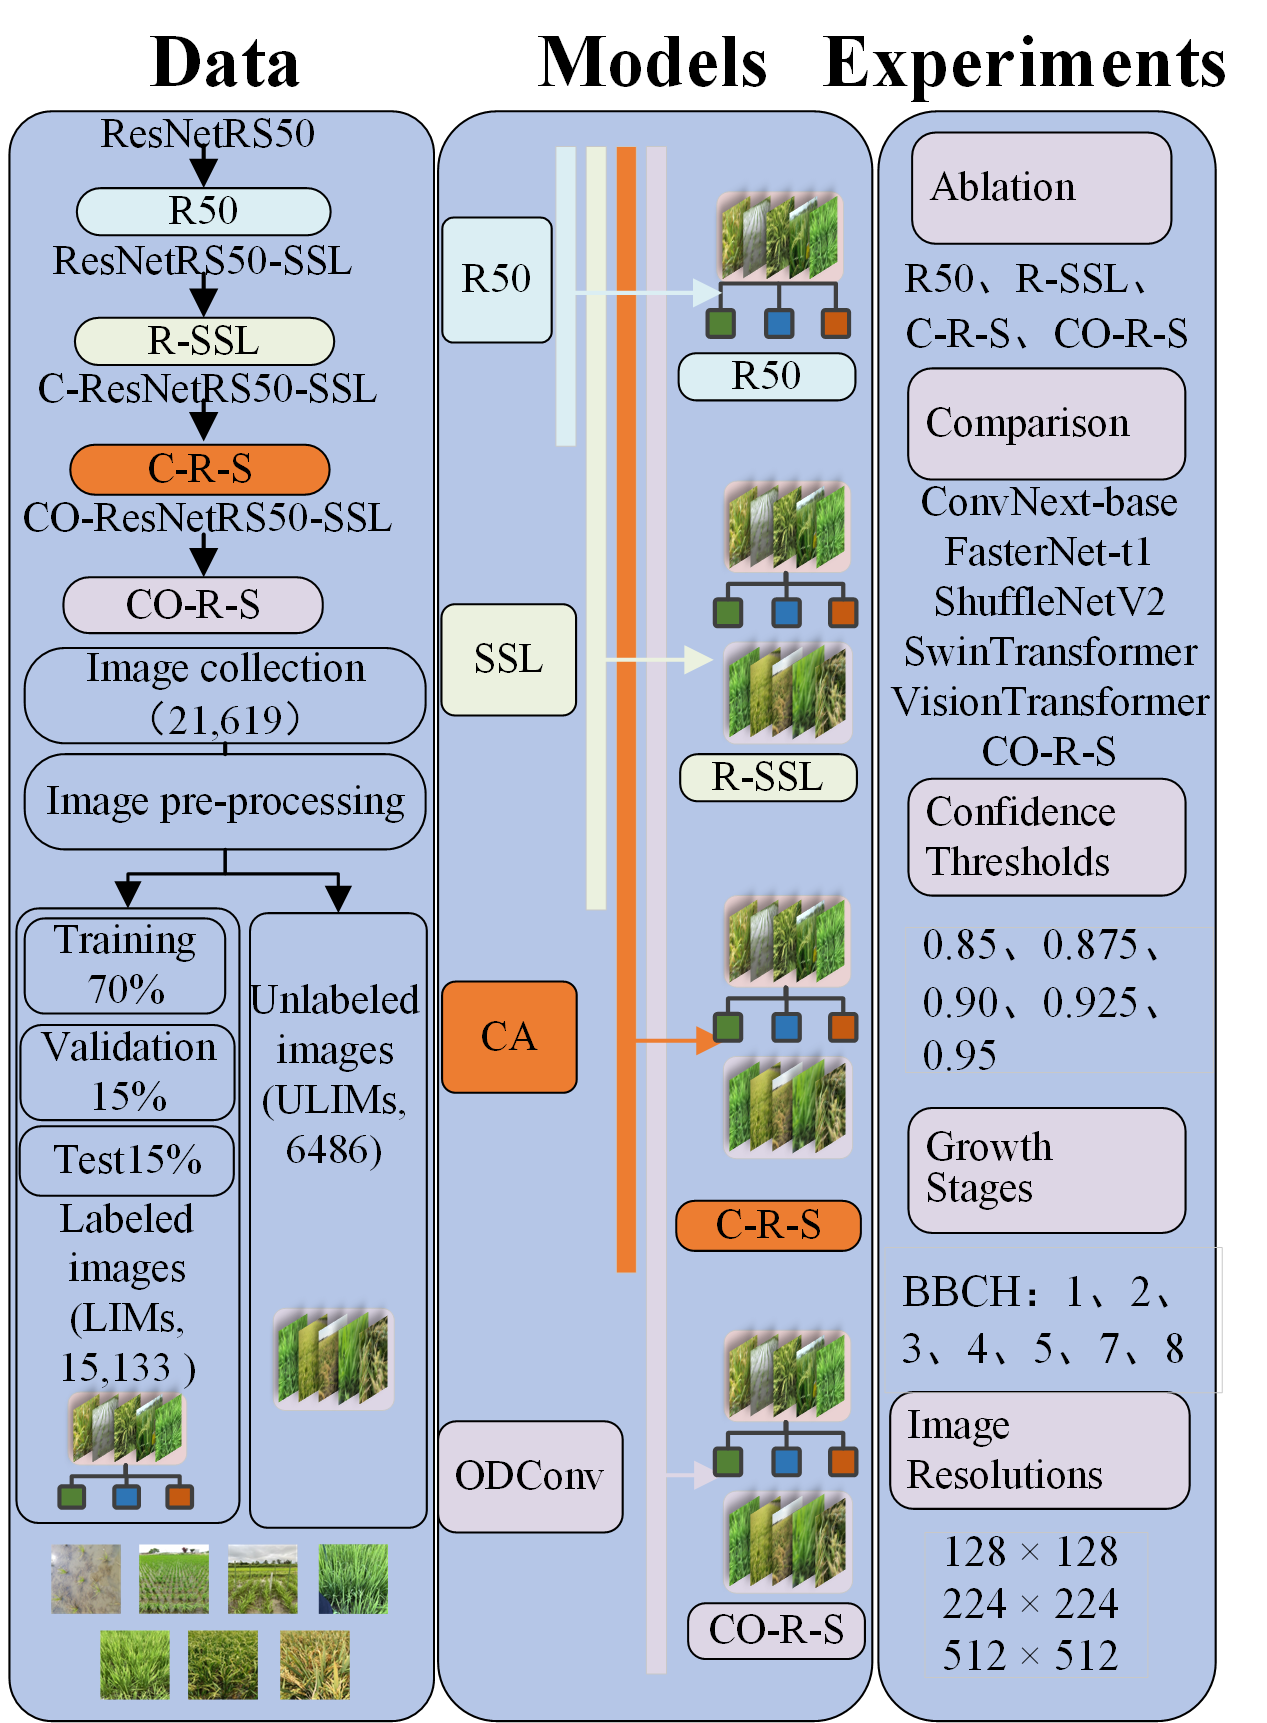
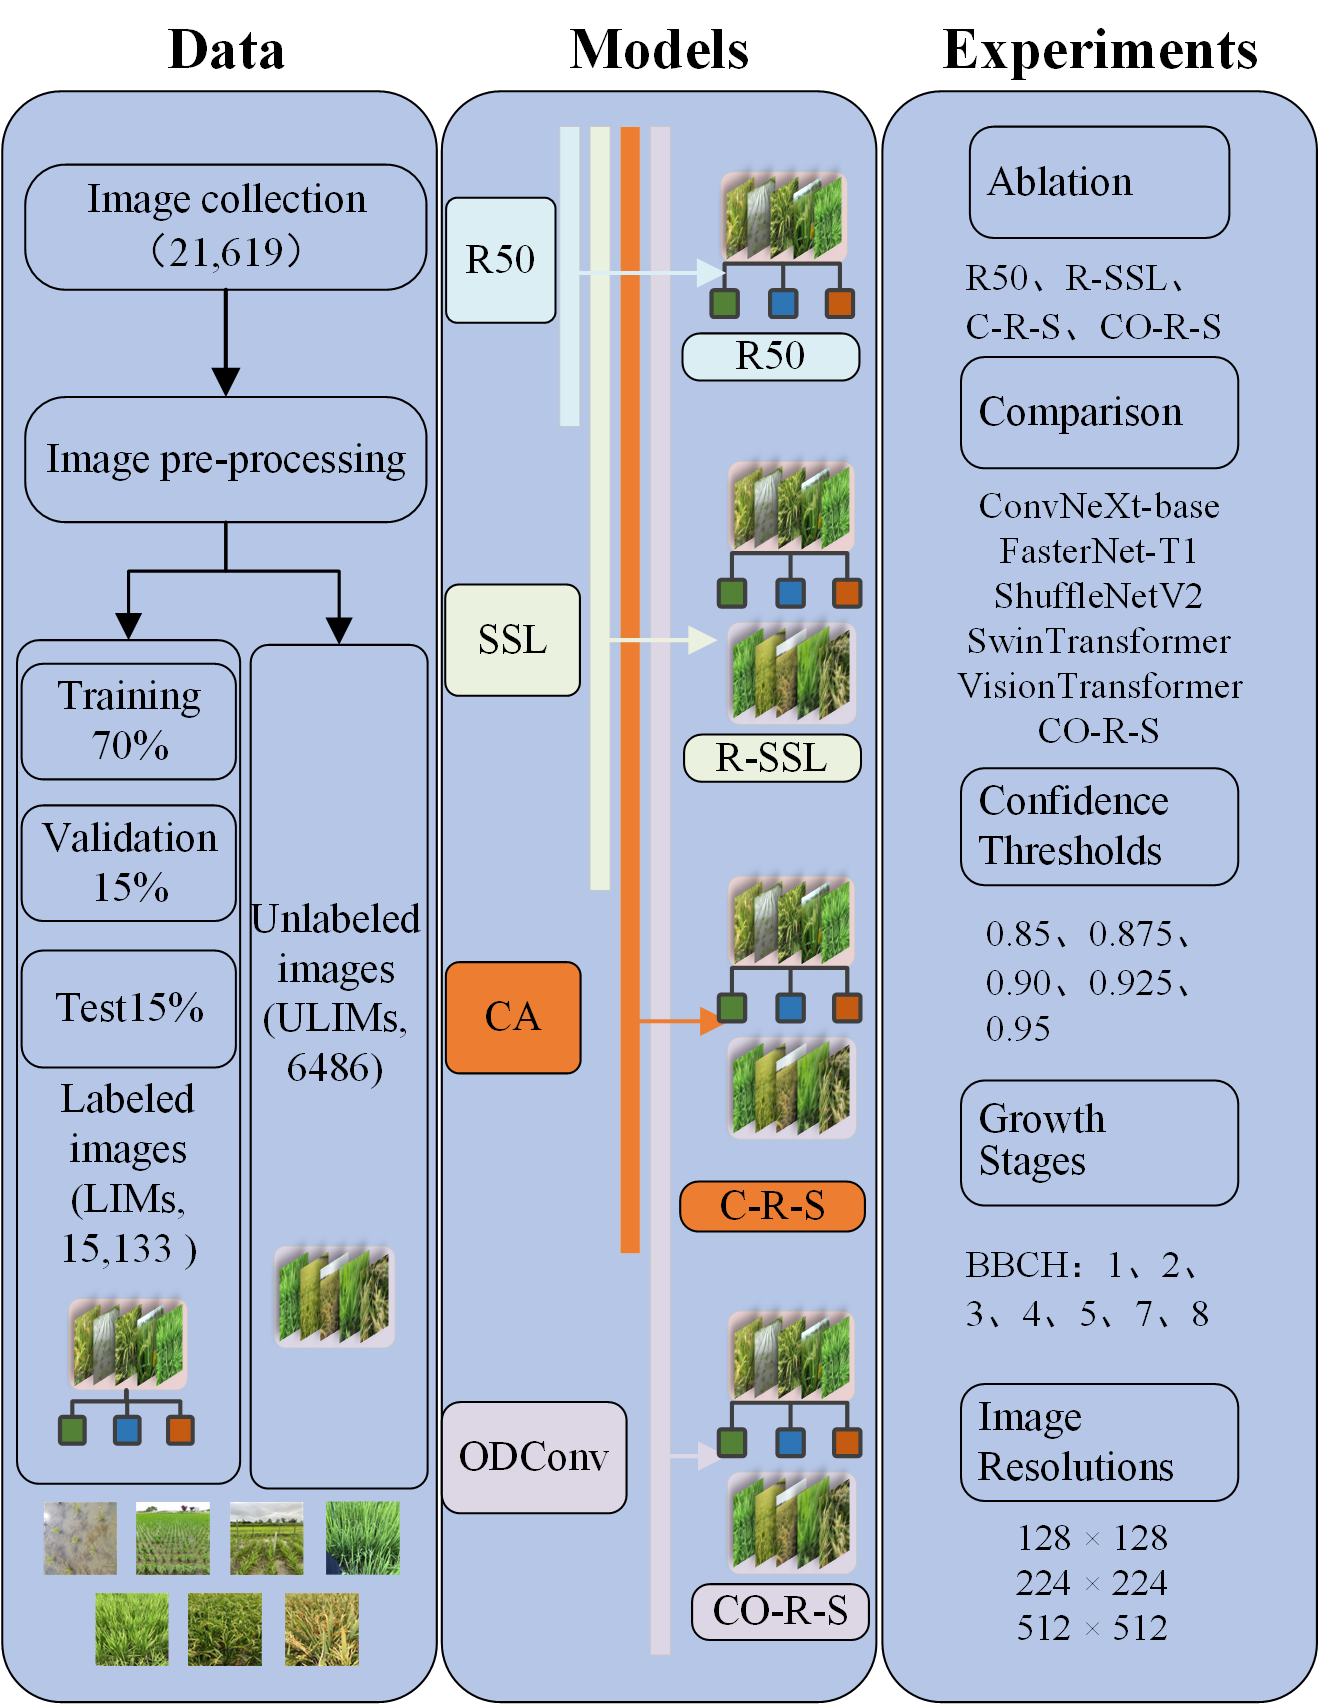
图片

diff --git a/src/CO_ResNetRS50_SSL_train.py b/src/CO_ResNetRS50_SSL_train.py
@@ -14,6 +14,7 @@ from sklearn.metrics import confusion_matrix
 from sklearn.metrics import precision_score, recall_score, f1_score
 import pandas as pd
 from torch.utils.data import DataLoader
+import time
 
 use_cuda = torch.cuda.is_available()
 device = torch.device("cuda" if use_cuda else "cpu")
@@ -33,6 +34,7 @@ def get_args():
 
 class WarmUpLR(_LRScheduler):
     def __init__(self, optimizer, total_iters, last_epoch=-1):
+
         self.total_iters = total_iters
         super().__init__(optimizer, last_epoch)
     
@@ -59,13 +61,16 @@ def main(args):
     optimizer = optim.SGD(model.parameters(), lr=args.learning_rate, weight_decay=5e-4, momentum=0.9)
     criterion = nn.CrossEntropyLoss().to(device)
 
-    print(f"Total parameters in the model: {count_parameters(model):,}")
+    # print(f"Total parameters in the model: {count_parameters(model):,}")
+    total_params = count_parameters(model) / 1e6  # 转换为M单位
+    print(f"Total parameters in the model: {total_params:.2f}M")
  
     best_val_accuracy = 0.0
+    train_time = 0
     # 新增：创建CSV文件并写入列标题
     with open("./data/CO_ResNetRS50_SSL/result.csv", "w") as f:
-        f.write("Epoch,Number_of_Unlabeled_Images,Train_Loss,Train_Acc,Val_Loss,Val_Acc,Test_Loss,Test_Acc,Test_Pre,Test_Recall,Test_F1,Test_1_Acc,Test_2_Acc,Test_3_Acc,Test_4_Acc,Test_5_Acc,Test_7_Acc,Test_8_Acc,Test_Confusion_Matrix\n")
-
+        f.write("Epoch,Number_of_Unlabeled_Images,Train_Loss,Train_Acc,Val_Loss,Val_Acc,Test_Loss,Test_Acc,Test_Pre,Test_Recall,Test_F1,Test_1_Acc,Test_2_Acc,Test_3_Acc,Test_4_Acc,Test_5_Acc,Test_7_Acc,Test_8_Acc,Test_Confusion_Matrix,Model_Parameter,Hours\n")
+        start_time = time.time()  # 开始时间
         total_difference = None        
         for epoch in range(1, args.epochs + 1):
             model.train()
@@ -120,10 +125,7 @@ def main(args):
 
             # 将结果写入CSV文件
             if epoch < args.epochs:
-                if args.ssl==False:
-                    f.write(f"{epoch},{average_train_loss:.4f},{average_train_accuracy:.4f},{average_val_loss:.4f},{average_val_accuracy:.4f},{None},{None},{None},{None},{None},{None},{None},{None},{None},{None},{None},{None},{None}\n")
-                else:
-                    f.write(f"{epoch},{total_difference},{average_train_loss:.4f},{average_train_accuracy:.4f},{average_val_loss:.4f},{average_val_accuracy:.4f},{None},{None},{None},{None},{None},{None},{None},{None},{None},{None},{None},{None},{None}\n")
+                f.write(f"{epoch},{total_difference},{average_train_loss:.4f},{average_train_accuracy:.4f},{average_val_loss:.4f},{average_val_accuracy:.4f},{None},{None},{None},{None},{None},{None},{None},{None},{None},{None},{None},{None},{None},{total_params:.2f},{None}\n")
 
             if best_val_accuracy < average_val_accuracy:
                 print('Saving..')
@@ -220,9 +222,14 @@ def main(args):
         for i in range(len(accuracy_per_class)):
             print(f"Class {i}: Accuracy: {accuracy_per_class[i]:.4f}")
 
+        end_time = time.time()  # 结束时间
+        train_time += end_time - start_time  # 累计推理时间
+        train_time = train_time / 3600  # 转换为小时
+        print(f"Total Inference Time: {train_time:.2f} hours")  # 打印推理时间
+
         # 将结果写入CSV文件
         conf_matrix_str = np.array_str(conf_matrix).replace('\n', ' ')
-        f.write(f"{epoch},{total_difference},{average_train_loss:.4f},{average_train_accuracy:.4f},{average_val_loss:.4f},{average_val_accuracy:.4f},{average_test_loss:.4f},{average_test_accuracy:.4f},{average_test_precision:.4f},{average_test_recall:.4f},{average_test_f1:.4f},{accuracy_per_class[0]:.4f},{accuracy_per_class[1]:.4f},{accuracy_per_class[2]:.4f},{accuracy_per_class[3]:.4f},{accuracy_per_class[4]:.4f},{accuracy_per_class[5]:.4f},{accuracy_per_class[6]:.4f},{conf_matrix_str}\n")
+        f.write(f"{epoch},{total_difference},{average_train_loss:.4f},{average_train_accuracy:.4f},{average_val_loss:.4f},{average_val_accuracy:.4f},{average_test_loss:.4f},{average_test_accuracy:.4f},{average_test_precision:.4f},{average_test_recall:.4f},{average_test_f1:.4f},{accuracy_per_class[0]:.4f},{accuracy_per_class[1]:.4f},{accuracy_per_class[2]:.4f},{accuracy_per_class[3]:.4f},{accuracy_per_class[4]:.4f},{accuracy_per_class[5]:.4f},{accuracy_per_class[6]:.4f},{conf_matrix_str},{total_params:.2f},{train_time:.2f}\n")
 
 
 if __name__ == '__main__':

diff --git a/src/C_ResNetRS50_SSL_train.py b/src/C_ResNetRS50_SSL_train.py
@@ -15,6 +15,7 @@ from sklearn.metrics import precision_score, recall_score, f1_score
 import pandas as pd
 from torch.utils.data import DataLoader
 
+
 use_cuda = torch.cuda.is_available()
 device = torch.device("cuda" if use_cuda else "cpu")
 print(device)
@@ -33,6 +34,7 @@ def get_args():
 
 class WarmUpLR(_LRScheduler):
     def __init__(self, optimizer, total_iters, last_epoch=-1):
+
         self.total_iters = total_iters
         super().__init__(optimizer, last_epoch)
     
@@ -59,13 +61,14 @@ def main(args):
     optimizer = optim.SGD(model.parameters(), lr=args.learning_rate, weight_decay=5e-4, momentum=0.9)
     criterion = nn.CrossEntropyLoss().to(device)
 
-    print(f"Total parameters in the model: {count_parameters(model):,}")
+    # print(f"Total parameters in the model: {count_parameters(model):,}")
+    total_params = count_parameters(model) / 1e6  # 转换为M单位
+    print(f"Total parameters in the model: {total_params:.2f}M")
  
     best_val_accuracy = 0.0
     # 新增：创建CSV文件并写入列标题
     with open("./data/C_ResNetRS50_SSL/result.csv", "w") as f:
-        f.write("Epoch,Number_of_Unlabeled_Images,Train_Loss,Train_Acc,Val_Loss,Val_Acc,Test_Loss,Test_Acc,Test_Pre,Test_Recall,Test_F1,Test_1_Acc,Test_2_Acc,Test_3_Acc,Test_4_Acc,Test_5_Acc,Test_7_Acc,Test_8_Acc,Test_Confusion_Matrix\n")
-
+        f.write("Epoch,Number_of_Unlabeled_Images,Train_Loss,Train_Acc,Val_Loss,Val_Acc,Test_Loss,Test_Acc,Test_Pre,Test_Recall,Test_F1,Test_1_Acc,Test_2_Acc,Test_3_Acc,Test_4_Acc,Test_5_Acc,Test_7_Acc,Test_8_Acc,Test_Confusion_Matrix,Model_Parameter\n")
         total_difference = None        
         for epoch in range(1, args.epochs + 1):
             model.train()
@@ -120,10 +123,7 @@ def main(args):
 
             # 将结果写入CSV文件
             if epoch < args.epochs:
-                if args.ssl==False:
-                    f.write(f"{epoch},{average_train_loss:.4f},{average_train_accuracy:.4f},{average_val_loss:.4f},{average_val_accuracy:.4f},{None},{None},{None},{None},{None},{None},{None},{None},{None},{None},{None},{None},{None}\n")
-                else:
-                    f.write(f"{epoch},{total_difference},{average_train_loss:.4f},{average_train_accuracy:.4f},{average_val_loss:.4f},{average_val_accuracy:.4f},{None},{None},{None},{None},{None},{None},{None},{None},{None},{None},{None},{None},{None}\n")
+                f.write(f"{epoch},{total_difference},{average_train_loss:.4f},{average_train_accuracy:.4f},{average_val_loss:.4f},{average_val_accuracy:.4f},{None},{None},{None},{None},{None},{None},{None},{None},{None},{None},{None},{None},{None},{total_params:.2f}\n")
 
             if best_val_accuracy < average_val_accuracy:
                 print('Saving..')
@@ -222,7 +222,7 @@ def main(args):
 
         # 将结果写入CSV文件
         conf_matrix_str = np.array_str(conf_matrix).replace('\n', ' ')
-        f.write(f"{epoch},{total_difference},{average_train_loss:.4f},{average_train_accuracy:.4f},{average_val_loss:.4f},{average_val_accuracy:.4f},{average_test_loss:.4f},{average_test_accuracy:.4f},{average_test_precision:.4f},{average_test_recall:.4f},{average_test_f1:.4f},{accuracy_per_class[0]:.4f},{accuracy_per_class[1]:.4f},{accuracy_per_class[2]:.4f},{accuracy_per_class[3]:.4f},{accuracy_per_class[4]:.4f},{accuracy_per_class[5]:.4f},{accuracy_per_class[6]:.4f},{conf_matrix_str}\n")
+        f.write(f"{epoch},{total_difference},{average_train_loss:.4f},{average_train_accuracy:.4f},{average_val_loss:.4f},{average_val_accuracy:.4f},{average_test_loss:.4f},{average_test_accuracy:.4f},{average_test_precision:.4f},{average_test_recall:.4f},{average_test_f1:.4f},{accuracy_per_class[0]:.4f},{accuracy_per_class[1]:.4f},{accuracy_per_class[2]:.4f},{accuracy_per_class[3]:.4f},{accuracy_per_class[4]:.4f},{accuracy_per_class[5]:.4f},{accuracy_per_class[6]:.4f},{conf_matrix_str},{total_params:.2f}\n")
 
 
 if __name__ == '__main__':

diff --git a/src/ResNetRS50_SSL_train.py b/src/ResNetRS50_SSL_train.py
@@ -33,6 +33,7 @@ def get_args():
 
 class WarmUpLR(_LRScheduler):
     def __init__(self, optimizer, total_iters, last_epoch=-1):
+
         self.total_iters = total_iters
         super().__init__(optimizer, last_epoch)
     
@@ -59,13 +60,14 @@ def main(args):
     optimizer = optim.SGD(model.parameters(), lr=args.learning_rate, weight_decay=5e-4, momentum=0.9)
     criterion = nn.CrossEntropyLoss().to(device)
 
-    print(f"Total parameters in the model: {count_parameters(model):,}")
+    # print(f"Total parameters in the model: {count_parameters(model):,}")
+    total_params = count_parameters(model) / 1e6  # 转换为M单位
+    print(f"Total parameters in the model: {total_params:.2f}M")
  
     best_val_accuracy = 0.0
     # 新增：创建CSV文件并写入列标题
     with open("./data/ResNetRS50_SSL/ssl_90/result.csv", "w") as f:
-        f.write("Epoch,Number_of_Unlabeled_Images,Train_Loss,Train_Acc,Val_Loss,Val_Acc,Test_Loss,Test_Acc,Test_Pre,Test_Recall,Test_F1,Test_1_Acc,Test_2_Acc,Test_3_Acc,Test_4_Acc,Test_5_Acc,Test_7_Acc,Test_8_Acc,Test_Confusion_Matrix\n")
-
+        f.write("Epoch,Number_of_Unlabeled_Images,Train_Loss,Train_Acc,Val_Loss,Val_Acc,Test_Loss,Test_Acc,Test_Pre,Test_Recall,Test_F1,Test_1_Acc,Test_2_Acc,Test_3_Acc,Test_4_Acc,Test_5_Acc,Test_7_Acc,Test_8_Acc,Test_Confusion_Matrix,Model_Parameter\n")
         total_difference = None        
         for epoch in range(1, args.epochs + 1):
             model.train()
@@ -120,10 +122,7 @@ def main(args):
 
             # 将结果写入CSV文件
             if epoch < args.epochs:
-                if args.ssl==False:
-                    f.write(f"{epoch},{average_train_loss:.4f},{average_train_accuracy:.4f},{average_val_loss:.4f},{average_val_accuracy:.4f},{None},{None},{None},{None},{None},{None},{None},{None},{None},{None},{None},{None},{None}\n")
-                else:
-                    f.write(f"{epoch},{total_difference},{average_train_loss:.4f},{average_train_accuracy:.4f},{average_val_loss:.4f},{average_val_accuracy:.4f},{None},{None},{None},{None},{None},{None},{None},{None},{None},{None},{None},{None},{None}\n")
+                f.write(f"{epoch},{total_difference},{average_train_loss:.4f},{average_train_accuracy:.4f},{average_val_loss:.4f},{average_val_accuracy:.4f},{None},{None},{None},{None},{None},{None},{None},{None},{None},{None},{None},{None},{None},{total_params:.2f}\n")
 
             if best_val_accuracy < average_val_accuracy:
                 print('Saving..')
@@ -222,7 +221,7 @@ def main(args):
 
         # 将结果写入CSV文件
         conf_matrix_str = np.array_str(conf_matrix).replace('\n', ' ')
-        f.write(f"{epoch},{total_difference},{average_train_loss:.4f},{average_train_accuracy:.4f},{average_val_loss:.4f},{average_val_accuracy:.4f},{average_test_loss:.4f},{average_test_accuracy:.4f},{average_test_precision:.4f},{average_test_recall:.4f},{average_test_f1:.4f},{accuracy_per_class[0]:.4f},{accuracy_per_class[1]:.4f},{accuracy_per_class[2]:.4f},{accuracy_per_class[3]:.4f},{accuracy_per_class[4]:.4f},{accuracy_per_class[5]:.4f},{accuracy_per_class[6]:.4f},{conf_matrix_str}\n")
+        f.write(f"{epoch},{total_difference},{average_train_loss:.4f},{average_train_accuracy:.4f},{average_val_loss:.4f},{average_val_accuracy:.4f},{average_test_loss:.4f},{average_test_accuracy:.4f},{average_test_precision:.4f},{average_test_recall:.4f},{average_test_f1:.4f},{accuracy_per_class[0]:.4f},{accuracy_per_class[1]:.4f},{accuracy_per_class[2]:.4f},{accuracy_per_class[3]:.4f},{accuracy_per_class[4]:.4f},{accuracy_per_class[5]:.4f},{accuracy_per_class[6]:.4f},{conf_matrix_str},{total_params:.2f}\n")
 
 
 if __name__ == '__main__':
